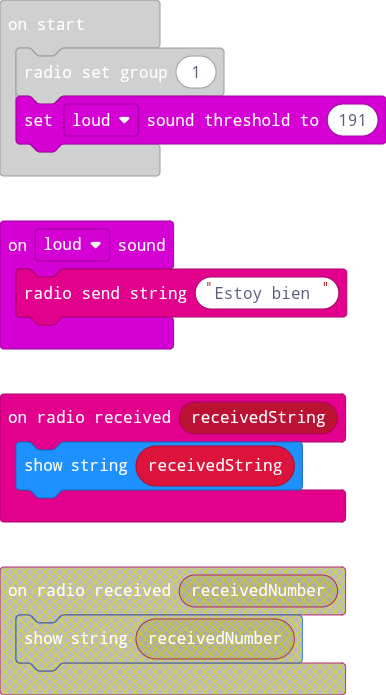
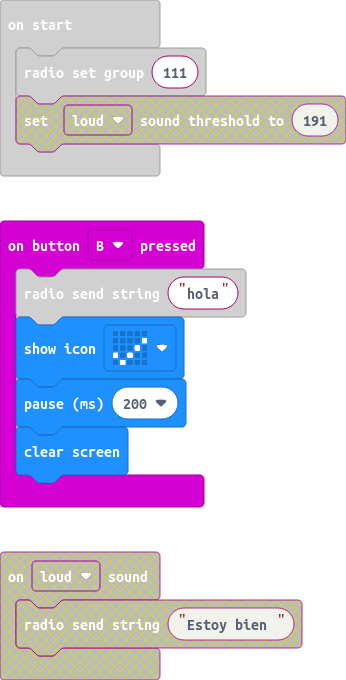
Update main.blocks, main.ts

diff --git a/main.ts b/main.ts
@@ -1,11 +1,10 @@
-input.onButtonPressed(Button.A, function () {
-    radio.sendString("Holaaa ")
-})
 radio.onReceivedString(function (receivedString) {
     basic.showString(receivedString)
 })
-input.onSound(DetectedSound.Loud, function () {
-    radio.sendString("Estoy bien ")
+input.onButtonPressed(Button.B, function () {
+    radio.sendString("hola")
+    basic.showIcon(IconNames.Yes)
+    basic.pause(200)
+    basic.clearScreen()
 })
-radio.setGroup(1)
-input.setSoundThreshold(SoundThreshold.Loud, 191)
+radio.setGroup(111)
